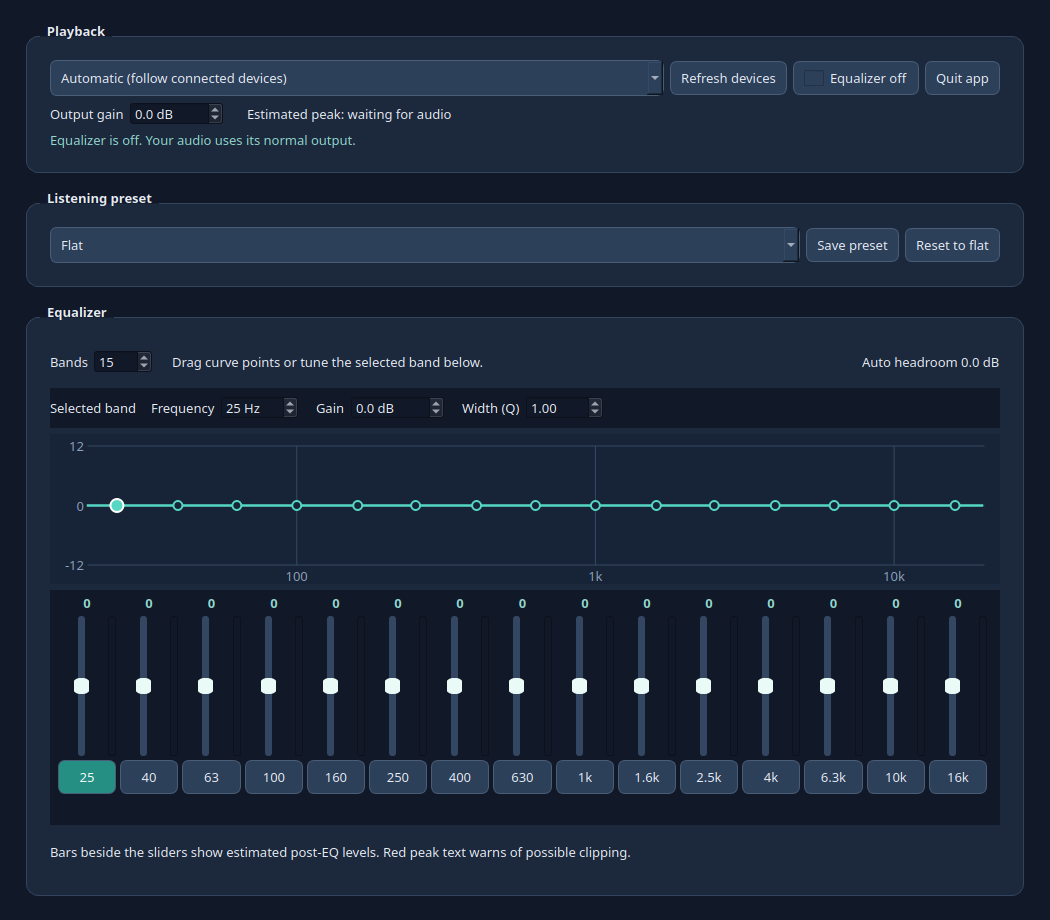
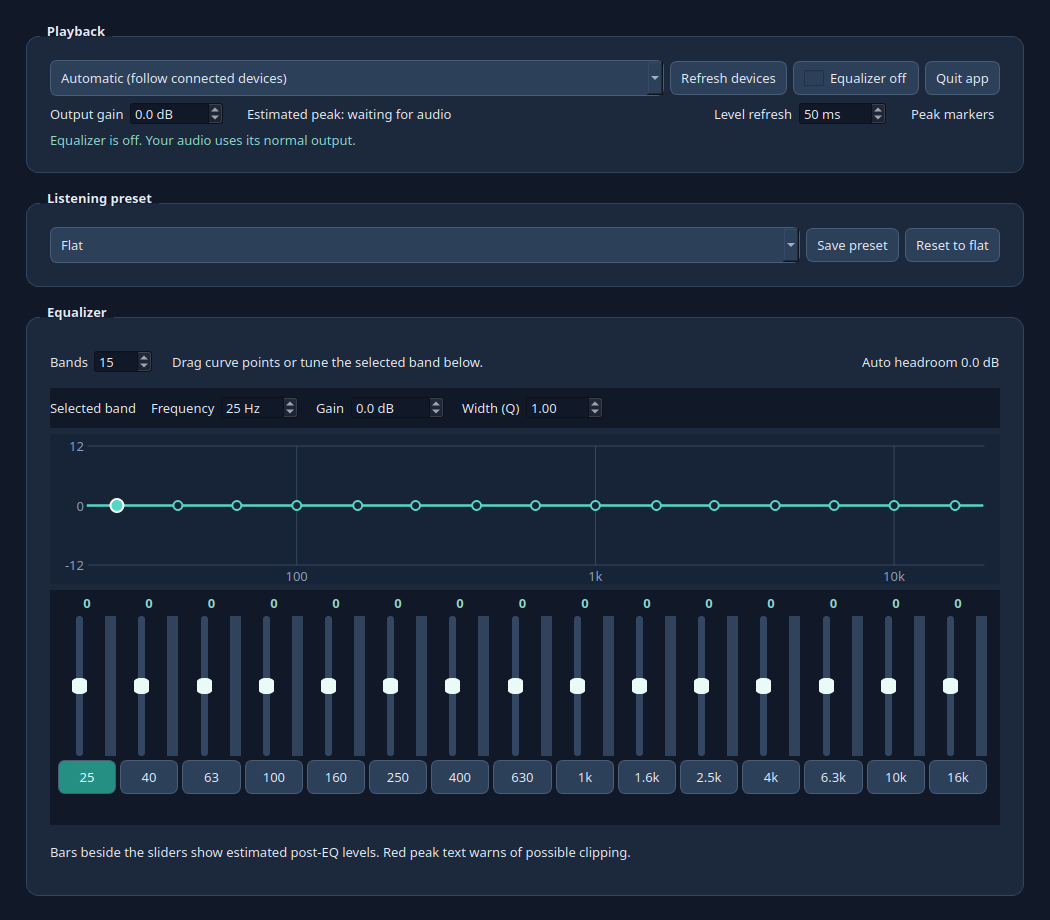
Make live meter refresh adjustable with optional peak markers

diff --git a/src/main.cpp b/src/main.cpp
@@ -16,6 +16,7 @@
 #include <QHBoxLayout>
 #include <QInputDialog>
 #include <QIcon>
+#include <QImage>
 #include <QJsonArray>
 #include <QJsonDocument>
 #include <QJsonObject>
@@ -32,7 +33,6 @@
 #include <QPainterPath>
 #include <QProcess>
 #include <QPushButton>
-#include <QProgressBar>
 #include <QScrollArea>
 #include <QScrollBar>
 #include <QSaveFile>
@@ -573,22 +573,74 @@ private:
     int dragging_ = -1;
 };
 
+class BandLevelMeter : public QWidget {
+public:
+    explicit BandLevelMeter(QWidget *parent = nullptr) : QWidget(parent) {
+        setFixedWidth(11);
+        setMinimumHeight(140);
+    }
+
+    void setLevel(double db) {
+        const double elapsed = peakClock_.isValid() ? peakClock_.restart() / 1000.0 : 0.0;
+        if (!peakClock_.isValid()) peakClock_.start();
+        levelDb_ = std::clamp(db, -60.0, 12.0);
+        peakDb_ = std::max(levelDb_, peakDb_ - 24.0 * elapsed);
+        update();
+    }
+
+    void setPeakMarkersEnabled(bool enabled) {
+        peakMarkersEnabled_ = enabled;
+        update();
+    }
+
+    void reset() {
+        levelDb_ = -60.0;
+        peakDb_ = -60.0;
+        peakClock_.invalidate();
+        update();
+    }
+
+protected:
+    void paintEvent(QPaintEvent *) override {
+        QPainter painter(this);
+        painter.fillRect(rect(), QColor("#30425c"));
+        const auto colorFor = [](double db) {
+            return QColor(db >= -3.0 ? "#f16b76" : db >= -12.0 ? "#e6b450" : "#50d1ba");
+        };
+        const auto heightFor = [this](double db) {
+            return std::clamp(int(std::lround((db + 60.0) * height() / 60.0)), 0, height());
+        };
+        const int filled = heightFor(levelDb_);
+        if (filled > 0) painter.fillRect(0, height() - filled, width(), filled, colorFor(levelDb_));
+        if (peakMarkersEnabled_ && peakDb_ > -60.0) {
+            const int y = std::clamp(height() - heightFor(peakDb_), 1, height() - 1);
+            painter.setPen(QPen(QColor("#f4f8ff"), 2));
+            painter.drawLine(0, y, width() - 1, y);
+        }
+    }
+
+private:
+    QElapsedTimer peakClock_;
+    double levelDb_ = -60.0;
+    double peakDb_ = -60.0;
+    bool peakMarkersEnabled_ = false;
+};
+
 class SpectrumMonitor : public QObject {
 public:
     std::function<void(const QVector<double> &, double)> onLevels;
     bool active() const { return process_.state() != QProcess::NotRunning; }
 
     SpectrumMonitor() {
-        timer_.setInterval(100);
+        timer_.setInterval(50);
         connect(&process_, &QProcess::readyReadStandardOutput, this, [this] {
-            pcm_.append(process_.readAllStandardOutput());
-            if (pcm_.size() > 131072) {
-                const auto excess = pcm_.size() - 131072;
-                pcm_.remove(0, (excess + 3) & ~3);
-            }
+            appendPcm(process_.readAllStandardOutput());
         });
         connect(&timer_, &QTimer::timeout, this, [this] { analyze(); });
     }
+
+    void setInterval(int milliseconds) { timer_.setInterval(std::clamp(milliseconds, 25, 250)); }
+    int interval() const { return timer_.interval(); }
 
     void setProfile(const Bands &bands, double outputGainDb) {
         bands_ = bands;
@@ -597,7 +649,7 @@ public:
     }
 
     void analyzePcmForTest(const QByteArray &pcm) {
-        pcm_ = pcm;
+        appendPcm(pcm);
         analyze();
     }
 
@@ -617,14 +669,24 @@ public:
             if (!process_.waitForFinished(500)) process_.kill();
         }
         pcm_.clear();
+        bytesSinceAnalysis_ = 0;
         if (onLevels) onLevels(QVector<double>(bands_.size(), 0.0), 0.0);
     }
 
 private:
+    void appendPcm(const QByteArray &pcm) {
+        pcm_.append(pcm);
+        bytesSinceAnalysis_ += pcm.size();
+        if (pcm_.size() > 131072) {
+            const auto excess = pcm_.size() - 131072;
+            pcm_.remove(0, (excess + 3) & ~3);
+        }
+    }
+
     void analyze() {
         constexpr int n = 4096;
         constexpr int frameBytes = 4;
-        if (pcm_.size() < n * frameBytes) return;
+        if (pcm_.size() < n * frameBytes || bytesSinceAnalysis_ < frameBytes) return;
         const auto *data = reinterpret_cast<const unsigned char *>(pcm_.constData());
         const int frameCount = pcm_.size() / frameBytes;
         double peak = 0.0;
@@ -645,7 +707,9 @@ private:
             const double window = 0.5 - 0.5 * std::cos(2.0 * std::numbers::pi * i / (n - 1));
             spectrum[i] = (double(left) + double(right)) / 65536.0 * window;
         }
-        pcm_.clear();
+        if (pcm_.size() > n * frameBytes)
+            pcm_.remove(0, (pcm_.size() - n * frameBytes) & ~qsizetype(3));
+        bytesSinceAnalysis_ = 0;
         for (int i = 1, j = 0; i < n; ++i) {
             int bit = n >> 1;
             for (; j & bit; bit >>= 1) j ^= bit;
@@ -687,6 +751,7 @@ private:
     QProcess process_;
     QTimer timer_;
     QByteArray pcm_;
+    qsizetype bytesSinceAnalysis_ = 0;
     Bands bands_;
     double headroomDb_ = 0.0;
     double outputGainDb_ = 0.0;
@@ -765,6 +830,20 @@ public:
         peakStatus_->setObjectName("peakStatus");
         gainRow->addWidget(peakStatus_);
         gainRow->addStretch();
+        gainRow->addWidget(new QLabel("Level refresh"));
+        levelRefresh_ = new QSpinBox;
+        levelRefresh_->setRange(25, 250);
+        levelRefresh_->setSingleStep(25);
+        levelRefresh_->setSuffix(" ms");
+        levelRefresh_->setAccessibleName("Level indicator refresh interval");
+        levelRefresh_->setToolTip("Shorter intervals update levels more often and use more CPU");
+        levelRefresh_->setValue(std::clamp(QSettings().value("levelRefreshMs", 50).toInt(), 25, 250));
+        gainRow->addWidget(levelRefresh_);
+        peakMarkers_ = new QCheckBox("Peak markers");
+        peakMarkers_->setAccessibleName("Show peak markers on frequency levels");
+        peakMarkers_->setToolTip("Show a falling peak hold line on each frequency level");
+        peakMarkers_->setChecked(QSettings().value("showPeakMarkers", false).toBool());
+        gainRow->addWidget(peakMarkers_);
         outputLayout->addLayout(gainRow);
         status_ = new QLabel("Equalizer is off. Your audio uses its normal output.");
         status_->setWordWrap(true);
@@ -865,6 +944,14 @@ public:
             meter_.setProfile(bands_, value);
             scheduleApply();
         });
+        connect(levelRefresh_, &QSpinBox::valueChanged, this, [this](int milliseconds) {
+            QSettings().setValue("levelRefreshMs", milliseconds);
+            meter_.setInterval(milliseconds);
+        });
+        connect(peakMarkers_, &QCheckBox::toggled, this, [this](bool enabled) {
+            QSettings().setValue("showPeakMarkers", enabled);
+            for (auto *level : levelBars_) level->setPeakMarkersEnabled(enabled);
+        });
         connect(countBox_, &QSpinBox::valueChanged, this, [this](int count) { changeBandCount(count); });
         connect(frequencyBox_, &QDoubleSpinBox::valueChanged, this, [this] { detailChanged(); });
         connect(gainBox_, &QDoubleSpinBox::valueChanged, this, [this] { detailChanged(); });
@@ -887,6 +974,7 @@ public:
         });
         meter_.onLevels = [this](const QVector<double> &levels, double peak) { showLevels(levels, peak); };
         meter_.setProfile(bands_, outputGain_->value());
+        meter_.setInterval(levelRefresh_->value());
         monitor_.setInterval(1500);
         connect(&monitor_, &QTimer::timeout, this, [this] { refreshDevices(); });
         monitor_.start();
@@ -961,7 +1049,6 @@ private:
         gainLabels_.clear();
         frequencyButtons_.clear();
         levelBars_.clear();
-        levelZones_.clear();
         auto *container = new QWidget;
         auto *row = new QHBoxLayout(container);
         row->setContentsMargins(8, 4, 8, 8);
@@ -983,18 +1070,11 @@ private:
             auto *sliderRow = new QHBoxLayout;
             sliderRow->setSpacing(3);
             sliderRow->addWidget(slider, 1, Qt::AlignHCenter);
-            auto *level = new QProgressBar;
-            level->setOrientation(Qt::Vertical);
-            level->setRange(0, 100);
-            level->setValue(0);
-            level->setTextVisible(false);
-            level->setFixedWidth(8);
-            level->setMinimumHeight(140);
-            level->setObjectName("bandLevel");
+            auto *level = new BandLevelMeter;
+            level->setPeakMarkersEnabled(peakMarkers_->isChecked());
             level->setAccessibleName(QString("Estimated output level near band %1").arg(i + 1));
             level->setToolTip("Estimated post-EQ level near this frequency");
             levelBars_.append(level);
-            levelZones_.append(-1);
             sliderRow->addWidget(level);
             column->addLayout(sliderRow, 1);
             auto *frequency = new QPushButton;
@@ -1021,14 +1101,8 @@ private:
         const auto count = std::min(levels.size(), levelBars_.size());
         for (qsizetype i = 0; i < count; ++i) {
             const double db = 20.0 * std::log10(std::max(levels[i], 0.000001));
-            levelBars_[i]->setValue(std::clamp(int(std::lround((db + 60.0) * 100.0 / 60.0)), 0, 100));
-            const int zone = db >= -3.0 ? 2 : db >= -12.0 ? 1 : 0;
-            if (levelZones_[i] != zone) {
-                const auto color = zone == 2 ? "#f16b76" : zone == 1 ? "#e6b450" : "#50d1ba";
-                levelBars_[i]->setStyleSheet(QString("QProgressBar#bandLevel { border: none; background: #30425c; border-radius: 3px; } "
-                                                     "QProgressBar#bandLevel::chunk { background: %1; border-radius: 3px; }").arg(color));
-                levelZones_[i] = zone;
-            }
+            if (power_->isChecked()) levelBars_[i]->setLevel(db);
+            else levelBars_[i]->reset();
             levelBars_[i]->setToolTip(QString("Estimated output near %1: %2 dBFS")
                                      .arg(frequencyLabel(bands_[i].frequency)).arg(db, 0, 'f', 1));
         }
@@ -1304,6 +1378,8 @@ private:
     QComboBox *presetCombo_ = nullptr;
     QCheckBox *power_ = nullptr;
     QDoubleSpinBox *outputGain_ = nullptr;
+    QSpinBox *levelRefresh_ = nullptr;
+    QCheckBox *peakMarkers_ = nullptr;
     QLabel *peakStatus_ = nullptr;
     QLabel *status_ = nullptr;
     QLabel *headroom_ = nullptr;
@@ -1316,8 +1392,7 @@ private:
     QVector<QSlider *> sliders_;
     QVector<QLabel *> gainLabels_;
     QVector<QPushButton *> frequencyButtons_;
-    QVector<QProgressBar *> levelBars_;
-    QVector<int> levelZones_;
+    QVector<BandLevelMeter *> levelBars_;
     QTimer applyTimer_;
     QTimer monitor_;
     QSystemTrayIcon *tray_ = nullptr;
@@ -1410,12 +1485,17 @@ int main(int argc, char **argv) {
     if (app.arguments().contains("--ui-self-test")) {
         MainWindow testWindow(false);
         SpectrumMonitor spectrumTest;
+        if (spectrumTest.interval() != 50) qFatal("Default level interval is not 50 ms");
+        spectrumTest.setInterval(25);
+        if (spectrumTest.interval() != 25) qFatal("Level interval is not adjustable");
         spectrumTest.setProfile(defaultBands(kDefaultBands), 0.0);
         QVector<double> testLevels;
         double testPeak = 0.0;
+        int levelUpdates = 0;
         spectrumTest.onLevels = [&](const QVector<double> &levels, double peak) {
             testLevels = levels;
             testPeak = peak;
+            ++levelUpdates;
         };
         QByteArray tone(4096 * 4, '\0');
         for (int i = 0; i < 4096; ++i) {
@@ -1430,10 +1510,31 @@ int main(int argc, char **argv) {
         if (testLevels.size() != kDefaultBands || testLevels[3] < 0.15 ||
             std::abs(testPeak - 0.25) > 0.01)
             qFatal("FFT level analysis failed");
+        spectrumTest.analyzePcmForTest(tone.left(2048 * 4));
+        if (levelUpdates != 2) qFatal("Overlapping FFT window did not refresh");
+        spectrumTest.analyzePcmForTest(QByteArray{});
+        if (levelUpdates != 2) qFatal("Level display refreshed without new audio");
         spectrumTest.setProfile(defaultBands(kDefaultBands), 6.0);
-        spectrumTest.analyzePcmForTest(tone);
+        spectrumTest.analyzePcmForTest(tone.left(2048 * 4));
         if (std::abs(testPeak - 0.5) > 0.03 || testLevels[3] < 0.3)
             qFatal("Output gain was not reflected in the level estimate");
+        BandLevelMeter peakTest;
+        peakTest.resize(11, 140);
+        peakTest.setPeakMarkersEnabled(true);
+        peakTest.setLevel(-3.0);
+        peakTest.setLevel(-20.0);
+        const auto withMarker = peakTest.grab().toImage();
+        peakTest.setPeakMarkersEnabled(false);
+        const auto withoutMarker = peakTest.grab().toImage();
+        bool markerVisible = false;
+        for (int y = 0; y < withMarker.height(); ++y)
+            for (int x = 0; x < withMarker.width(); ++x) {
+                const auto color = withMarker.pixelColor(x, y);
+                if (color != withoutMarker.pixelColor(x, y) &&
+                    color.red() > 200 && color.green() > 200 && color.blue() > 200)
+                    markerVisible = true;
+            }
+        if (!markerVisible) qFatal("Peak marker did not follow its toggle");
         if (builtinShapes().size() < 30) qFatal("Preset library is incomplete");
         if (testWindow.windowTitle() != "SoundCurrent EQ") qFatal("Window title is missing");
         for (const auto *label : testWindow.findChildren<QLabel *>()) {
@@ -1471,6 +1572,14 @@ int main(int argc, char **argv) {
         auto *outputGain = findDouble("Output gain after equalization");
         if (!outputGain || outputGain->minimum() != -12.0 || outputGain->maximum() != 12.0)
             qFatal("Output gain control is missing");
+        auto *levelRefresh = findSpin("Level indicator refresh interval");
+        if (!levelRefresh || levelRefresh->minimum() != 25 || levelRefresh->maximum() != 250 ||
+            levelRefresh->singleStep() != 25)
+            qFatal("Level refresh control is missing");
+        QCheckBox *peakMarkers = nullptr;
+        for (auto *check : testWindow.findChildren<QCheckBox *>())
+            if (check->accessibleName() == "Show peak markers on frequency levels") peakMarkers = check;
+        if (!peakMarkers) qFatal("Peak marker toggle is missing");
         if (presets->currentText() != "Flat") qFatal("Flat is not the default preset");
         if (presets->findText("Loudness") < 0) qFatal("Loudness preset is missing");
         if (presets->findText("Entertainment") >= 0) qFatal("Category title appears as a preset");
@@ -1498,7 +1607,10 @@ int main(int argc, char **argv) {
         if (gain->value() != 0.0) qFatal("Flat preset did not reset the bands");
         count->setValue(31);
         if (testWindow.findChildren<QSlider *>().size() != 31) qFatal("31-band layout failed");
-        if (testWindow.findChildren<QProgressBar *>().size() != 31) qFatal("Level indicators are missing");
+        int levelCount = 0;
+        for (auto *widget : testWindow.findChildren<QWidget *>())
+            if (dynamic_cast<BandLevelMeter *>(widget)) ++levelCount;
+        if (levelCount != 31) qFatal("Level indicators are missing");
         frequency->setValue(22);
         gain->setValue(4);
         q->setValue(1.8);

diff --git a/README.md b/README.md
@@ -18,7 +18,10 @@ physical output you selected. The **Automatic** device setting follows newly
 connected outputs, while the dropdown lets you pin a specific device.
 
 The EQ curve shows what the frequency settings do. Colored indicators next to
-the sliders show a live estimate of the sound level near each frequency. The
+the sliders show a live estimate of the sound level near each frequency. Set
+**Level refresh** from 25 to 250 ms (50 ms by default), and turn on **Peak
+markers** to see a falling peak hold line on each indicator. Peak markers start
+off; both choices are remembered. The
 peak readout turns amber or red as the estimated output approaches clipping.
 Boosting bands can lower overall loudness because the app makes room for those
 boosts; **Output gain** lets you bring the level back up. It starts at 0 dB and
@@ -100,8 +103,9 @@ or install missing dependencies.
 - **Loudness** applies a fixed bass and treble contour for quiet listening, like
   the loudness controls on older receivers. It does not change with the volume.
 - Colored bars beside the band sliders show estimated post-EQ levels from a
-  live, local spectrum sample. A 4096-point FFT updates ten times per second
-  while the window is open. Teal means ordinary activity, amber approaches
+  live, local spectrum sample. A 4096-point FFT uses overlapping audio windows
+  and checks for new audio at the chosen refresh interval while the window is
+  open. Teal means ordinary activity, amber approaches
   full scale, and red suggests clipping risk. The peak text uses the same
   colors. These are estimates based on the EQ input and current settings; they
   do not measure the DAC or guarantee that every transient is caught.
